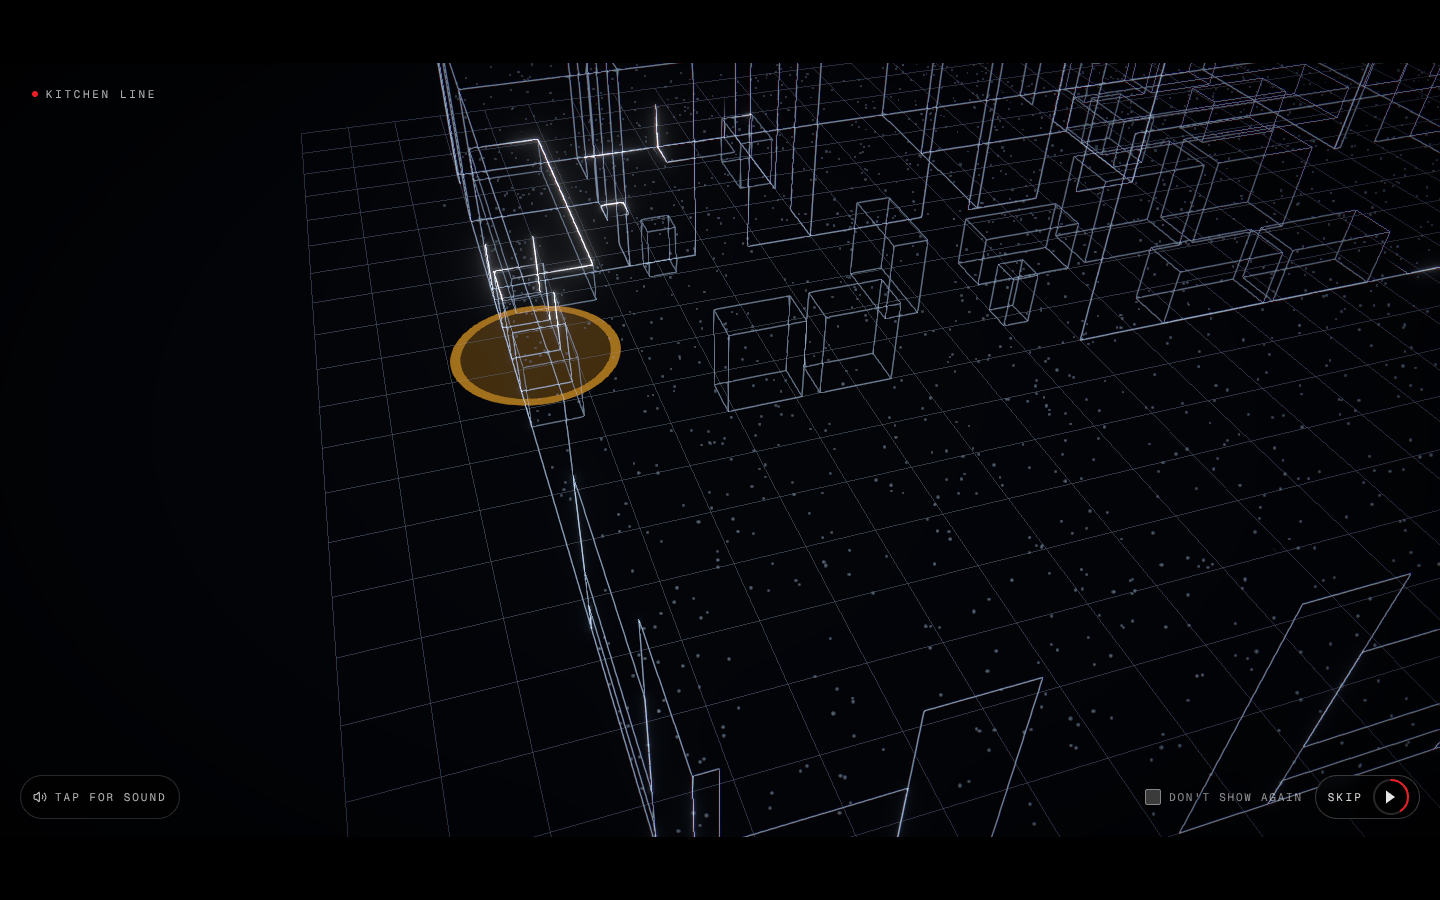
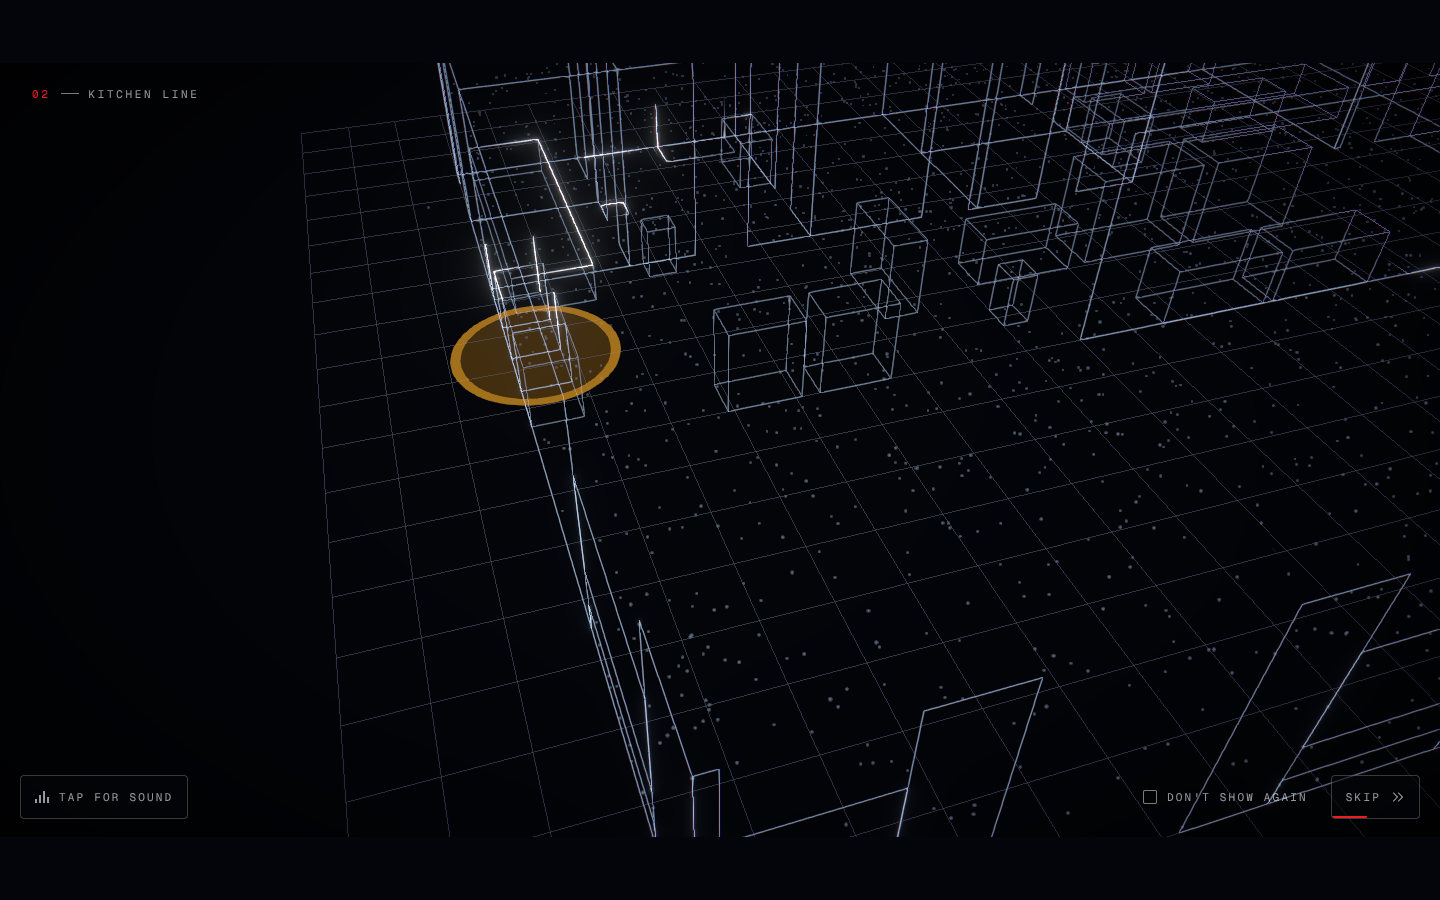
Launch proof set: desktop and phone frames of every beat, gate states and app; chips clear before the title
Claude-Session: https://claude.ai/code/session_01Ufnt8yeUtWwphsGDpMdPeL

diff --git a/src/components/launch/LaunchScene.tsx b/src/components/launch/LaunchScene.tsx
@@ -591,7 +591,7 @@ function Instrumentation({ sim }: { sim: BranchSimulation }) {
   return (
     <>
       {items.map((it) => {
-        const k = smooth(it.at, it.at + 0.7, t) * (1 - smooth(BEAT.hero - 0.4, BEAT.hero + 0.8, t) * 0.85);
+        const k = smooth(it.at, it.at + 0.7, t) * (1 - smooth(BEAT.hero - 0.6, BEAT.hero + 0.5, t));
         if (k <= 0) return null;
         return (
           <Html key={it.id} position={it.pos} center zIndexRange={[20, 0]} style={{ pointerEvents: "none" }}>

diff --git a/src/app/globals.css b/src/app/globals.css
@@ -464,6 +464,12 @@ select {
   text-transform: uppercase;
   color: var(--launch-fg-2);
 }
+@media (max-width: 640px) {
+  .launch-title .launch-eyebrow {
+    letter-spacing: 0.18em;
+    white-space: nowrap;
+  }
+}
 .launch-wordmark {
   margin-top: 10px;
   font-family: var(--font-brand), var(--font-ui), system-ui, sans-serif;
